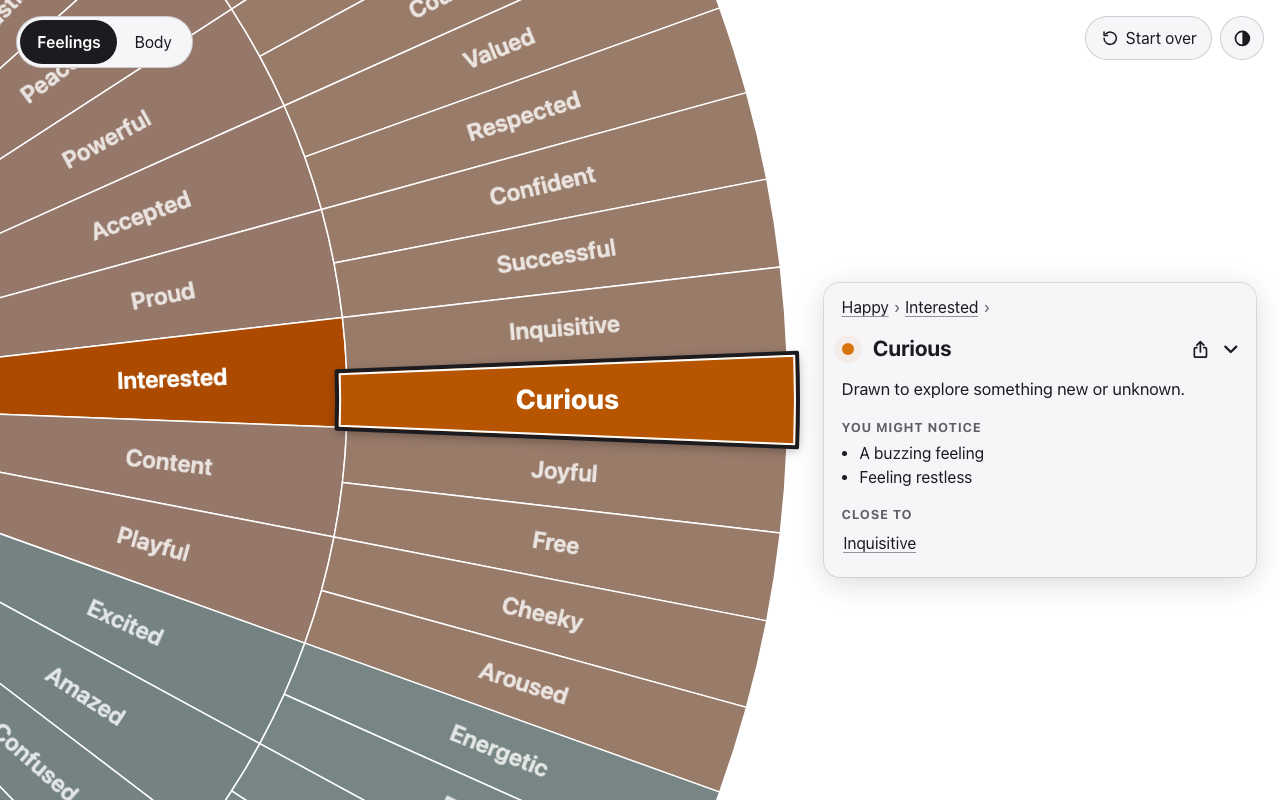
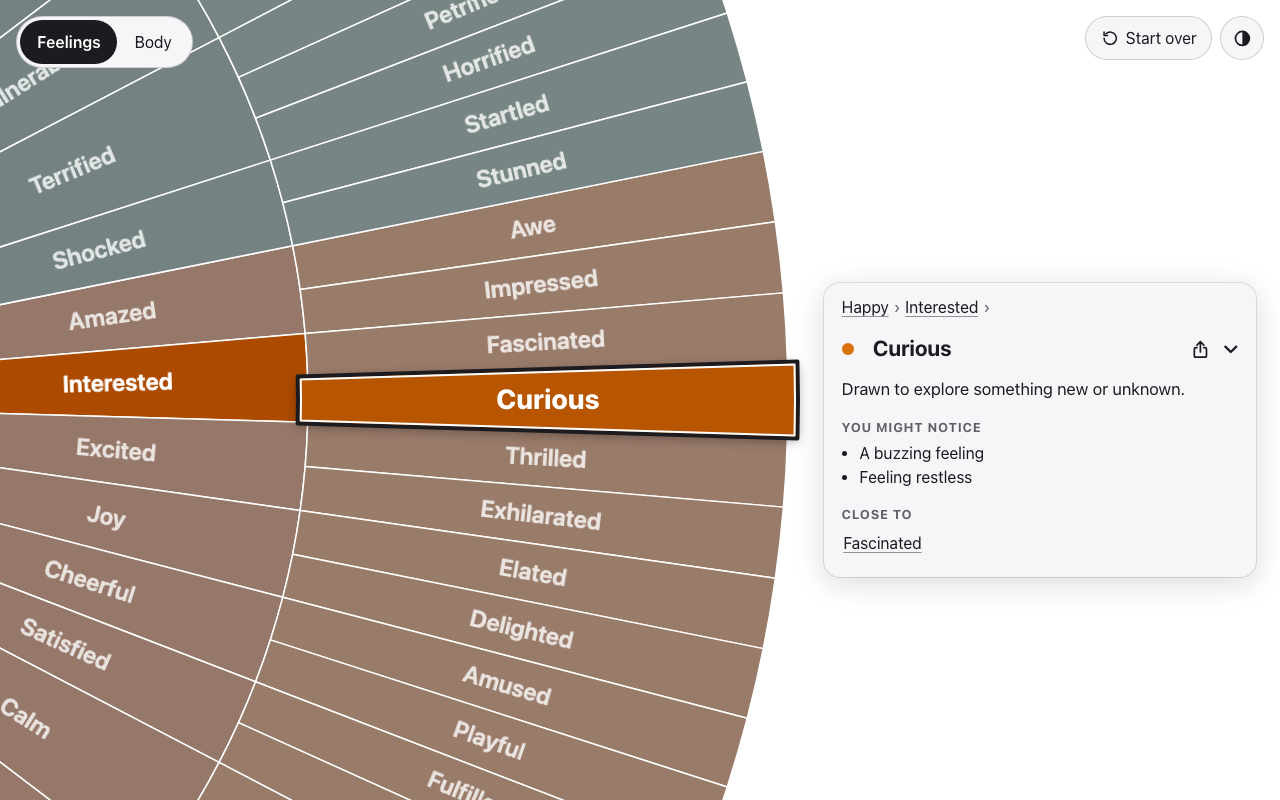
Opinionated wheel: roadmap, accessibility, and the README screenshot

diff --git a/docs/ROADMAP.md b/docs/ROADMAP.md
@@ -31,6 +31,7 @@ Each change is used before the next one is designed. When Lucas picks an idea to
 | Known issues: card text that keeps its size when the phone turns, no double-tap zoom on labels, one rest view for both wheels, opened rings that fit the screen, opened labels that fit their cell, a wheel that keeps its axis while it turns, labels that never disappear, and an opened wedge centered below the controls | Shipped 2026-11-18 | [spec](superpowers/specs/2026-11-18-feels-on-wheels-known-issues-design.md), [plan](superpowers/plans/2026-11-18-feels-on-wheels-known-issues.md), [round-two plan](superpowers/plans/2026-11-18-feels-on-wheels-known-issues-round-2.md), [round-three plan](superpowers/plans/2026-11-18-feels-on-wheels-known-issues-round-3.md), [changes](superpowers/specs/2026-11-18-feels-on-wheels-known-issues-changes.md) |
 | <a id="snapshots-across-devices-and-window-sizes"></a>Screenshots of every layout on real phones, tablets and computers, in Chromatic | Shipped 2026-11-18 | [spec](superpowers/specs/2026-11-18-feels-on-wheels-screenshots-design.md), [plan](superpowers/plans/2026-11-18-feels-on-wheels-screenshots.md), [changes](superpowers/specs/2026-11-18-feels-on-wheels-screenshots-changes.md) |
 | Sideways tablets and computers: the core word stays in view with a middle word open, and opening a core word zooms in a little more | Shipped 2026-11-19 | [spec](superpowers/specs/2026-11-18-feels-on-wheels-sideways-zoom-design.md), [plan](superpowers/plans/2026-11-19-feels-on-wheels-sideways-zoom.md), [changes](superpowers/specs/2026-11-18-feels-on-wheels-sideways-zoom-changes.md) |
+| <a id="an-opinionated-feelings-wheel"></a>An opinionated feelings wheel: six cores like a color wheel, 162 words chosen by rules and research, plain-language cards, the body wheel repaired to match, and the rules beside the data | Shipped 2026-11-26 | [spec](superpowers/specs/2026-11-26-feels-on-wheels-opinionated-wheel-design.md), [plan](superpowers/plans/2026-11-26-feels-on-wheels-opinionated-wheel.md) |
 
 ## Ideas
 
@@ -43,7 +44,7 @@ Not in any order; none is chosen yet. They're grouped by what they touch, and id
 | [Strength](#strength) | New ways to identify an emotion | Shelved (2026-11-08) |
 | [Wheels for kids](#wheels-for-kids) | New ways to identify an emotion | Idea |
 | [Search for a word](#search-for-a-word) | New ways to identify an emotion | Idea |
-| [An opinionated feelings wheel](#an-opinionated-feelings-wheel) | [The wheels' content](#the-wheels-content) | Brainstorming |
+| [Open questions in the feelings wheel](#open-questions-in-the-feelings-wheel) | [The wheels' content](#the-wheels-content) | Idea |
 | [Narrower feelings on the body wheel's card](#narrower-feelings-on-the-body-wheels-card) | The wheels' content | Idea |
 | [Languages](#languages) | [URLs, routing and hosting](#urls-routing-and-hosting) | Planned |
 | ["Did you mean" on not found](#did-you-mean-on-not-found) | URLs, routing and hosting | Idea |
@@ -94,7 +95,7 @@ What Lucas first asked for:
   - their URLs, and whether a kids' word links to the same word on the grown-up wheel;
   - where the words come from, since any new source gets a [reference note](reference/README.md) and a credit.
 - Overlaps with the [emoji wheel](#emoji-wheel), which is also a simplified wheel; worth designing them together.
-- A check for which words fit each age, from the opinionated wheel's brainstorm (2026-11-19): a published study of which feeling words children know, by age band (Baron-Cohen et al. 2010, UK, about 336 words; it counts a word as known when 75% of the band knew it). Words off its list need another check. See the [data notes](opinionated-wheel/learnings.md#data).
+- A check for which words fit each age, from the opinionated wheel's brainstorm (2026-11-19): a published study of which feeling words children know, by age band (Baron-Cohen et al. 2010, UK, about 336 words; it counts a word as known when 75% of the band knew it). Words off its list need another check. See [its note](reference/baron-cohen-emotion-vocabulary.md).
 
 #### Search for a word
 
@@ -108,24 +109,14 @@ What Lucas first asked for:
 
 What the wheels say: their words, definitions, and how feelings relate to sensations. Whatever is decided here gets written down as rules beside the data (`src/data/README.md`, with an `AGENTS.md` there that loads it), not only in a spec.
 
-#### An opinionated feelings wheel
+#### Open questions in the feelings wheel
 
-- Lucas, 2026-11-15: the feelings wheel should be opinionated about the words it uses, their definitions, and how feelings relate to sensations. Today it largely repeats other wheels (mostly [Roberts's seven-core wheel](reference/core-feelings-wheel.md)), which isn't necessary.
-- Its rules go in `src/data/README.md` next to the body wheel's, so every later edit follows them.
-- **A word for accepting your situation.** Lucas, 2026-11-16: not fighting reality, going with the flow. The wheel's Accepted means being welcomed by others, so the body wheel's Nothing much uses Content and At peace for now (rework [changes](superpowers/specs/2026-11-15-feels-on-wheels-body-wheel-rework-changes.md#flat); [radical acceptance](reference/linehan-dbt-model-of-emotions.md), [equanimity](reference/desbordes-equanimity.md)).
-- **Words that sit oddly under their parent,** such as Hesitant under Repelled, Embarrassed under Disapproving, and Inferior under Depressed (Lucas, 2026-11-16). The body wheel's rule about a word and its parent depends on this nesting.
-- **Brainstormed 2026-11-19 and 2026-11-20.** The rules for which words the wheel has and where they go are settled, and a candidate wheel was built from those rules alone: 6 cores (Happy, Love, Sad, Scared, Angry, Bad) and about 165 words, keeping about half of today's. Everything is in [opinionated-wheel/](opinionated-wheel/):
-  - [the rules](opinionated-wheel/rules.md) and the research behind them;
-  - [the candidate wheel](opinionated-wheel/derived-wheel.md);
-  - [what the process taught](opinionated-wheel/learnings.md), including every decision Lucas made;
-  - [the handoff](opinionated-wheel/handoff.md) for the next session: scrutinize the rules, rule on the cores, then comb the words.
-- **Rules rethought 2026-11-21.** A cold refutation of the numbered rules led Lucas to replace them with a looser set: strict script checks for facts, usage counts as flags, five questions for judgment, and a written reason for every word. Two independent drafts and a refuter checked it.
-- Settled along the way: the accepting word is At peace (under Happy → Calm), and the odd nestings are what the placement questions fix. Colors, link previews, and URLs don't weigh in the choices, and links to removed or moved words aren't a concern (Lucas, 2026-11-19).
-- Cores settled 2026-11-21: Happy, Love, Sad, Scared, Angry, and Bad.
-- Words settled for now, 2026-11-22: 162 words, with placement judged by which core people would tap (Lucas will review them again). Translations are out of scope for this work. The body wheel was repaired to the new words on 2026-11-26, changing only what they forced, and Urges took the brown Disgusted had as a core ([research/16](opinionated-wheel/research/16-body-wheel-repair.md)).
-- The cores are arranged like a color wheel, opposites facing each other, 2026-11-26: Happy, Angry, Love, Sad, Bad, Scared. Bad became teal, and the body wheel's Throat a muted violet to make room ([learnings](opinionated-wheel/learnings.md#lucass-decisions)).
-- "You might notice" for the new words was drafted from the repaired body wheel on 2026-11-26 ([research/16](opinionated-wheel/research/16-body-wheel-repair.md)). Still to decide: reference notes and credits for the new sources; and whether NRC's request for an About-page credit covers using it only as a design-time check (the app stays non-commercial, Lucas 2026-11-21).
-- Meets [Strength](#strength), [Wheels for kids](#wheels-for-kids), [Languages](#languages), and the [definitions and sensations review](#before-launching), which all depend on which words the wheel has. Builds on the rules the [body wheel rework](superpowers/specs/2026-11-15-feels-on-wheels-body-wheel-rework-design.md) set in [src/data/README.md](../src/data/README.md).
+Left open when the [opinionated feelings wheel](superpowers/specs/2026-11-26-feels-on-wheels-opinionated-wheel-design.md) shipped (its §6).
+
+- **"I feel bad for them."** Nearly half of "feel bad" is guilt or sympathy. Guilty is under Bad, but Sorry for someone is under Sad → Heartache, and nothing under Bad leads there; Bad's card can't point to it without a tacked-on clause (Lucas, 2026-11-25). The order helps a little: Sympathy sits beside Sorry for someone, where Love meets Sad. If people who feel bad for a friend don't find it, putting Sorry for someone in two places is the fix.
+- **Jealous and Envious.** Jealous is a middle word with Envious and Possessive, the two everyday kinds of jealousy. Lucas, 2026-11-22: "I just don't think it works very well", and he'd rather not have both Jealous and Envious, but Jealous has nowhere else to sit except a stretched Resentful.
+- **Check the whole wheel through a user's eyes,** as `src/data/README.md` describes, which would settle the first question. Lucas looked over the wheel himself on 2026-11-26 and saw nothing noteworthy.
+- Meets [Strength](#strength), [Wheels for kids](#wheels-for-kids), and [Languages](#languages), which all depend on which words the wheel has.
 
 #### Narrower feelings on the body wheel's card
 
@@ -137,7 +128,7 @@ What the wheels say: their words, definitions, and how feelings relate to sensat
   - for a core feeling, its middle-ring words only, or the outer words too;
   - whether each one links to its word on the feelings wheel, like the feelings they're nested under;
   - how long the card gets, since a core feeling can have several middle-ring words, and how the list reads to a screen reader.
-- Meets [An opinionated feelings wheel](#an-opinionated-feelings-wheel), which may change which words are nested under which, such as Hesitant under Repelled.
+- Example: on the body wheel, Overwhelmed (a middle word) is under several sensations; its card would also list Burned out and Pressured, the words under it on the feelings wheel.
 
 ### URLs, routing and hosting
 
@@ -216,7 +207,7 @@ Looked at on 2026-11-18 ([spec](superpowers/specs/2026-11-18-feels-on-wheels-kno
 
 The app is called **Feels on Wheels** (decided 2026-11-09). Going public happens in two steps: first shareable, then launched. Step 1 [shipped](#shipped) on 2026-11-09. Step 2 is what's left before announcing it and letting search engines index it. The host and the domain (2026-11-13) and the URL structure (2026-11-14) are done; the rest isn't started.
 
-- **Lucas reviews the definitions and sensations** in [content-review.md](content-review.md). This was moved out of v1.1. Since the body wheel rework, it also shows each card's "You might notice" phrases and the body wheel as it is, all rebuilt from the data, so the phrases drafted in the rework get reviewed here too.
+- **Lucas reviews the "You might notice" phrases** in [content-review.md](content-review.md), rebuilt from the data. He reviewed every definition twice for the [opinionated feelings wheel](superpowers/specs/2026-11-26-feels-on-wheels-opinionated-wheel-design.md) (2026-11-25); the phrases for its new words were drafted and cold-reviewed, but not by him.
 - **Draft text for Lucas to edit:** the body wheel's preview description ("Start from what you notice in your body to find the word for what you feel.") is a draft, and it's shorter than the 100 to 160 characters the home description uses.
 - **Let search engines in:** set `indexable: true` in `site.config.ts` (removes `noindex`), deploy, and re-check the link previews.
   - Decide first whether the `workers.dev` address and the preview links should say `noindex` once the domain is indexable, since they serve the same pages.

diff --git a/ACCESSIBILITY.md b/ACCESSIBILITY.md
@@ -64,7 +64,7 @@ These are known and tracked in the [roadmap's known issues](docs/ROADMAP.md#know
 - **On a phone, swiping back from the edge of the screen doesn't work on the wheel**, because the wheel takes every touch. Use the browser's Back button instead. In the app installed to an iPhone's home screen there's no Back at all: use Start over, or "Back to the wheel" on the About page. After jumping from the body wheel to the feelings wheel, "Back to the body wheel" above the card goes back without the browser's Back.
 - **On an iPhone with VoiceOver, the words on the wheel can't be reached**, so you can't pick a word that way. TalkBack on Android likely has the same problem but hasn't been tried. Until it's fixed, a word's own address (such as `/angry`) opens its card directly.
 - **On the wheel, pinching zooms the wheel itself, not the page.** To make text larger, use the browser's or the system's text size or zoom settings.
-- **Words on the wheel can be small to tap before you've opened anything**, especially on the body sensations wheel: on a phone and on some computers, the outer words are under 24 px tall. Open a word in the middle ring first by tapping it twice. The wheel zooms in, and every word in the outer ring is then large enough to tap.
+- **Words on the wheel can be small to tap before you've opened anything**, on both wheels: on a phone and on most computers, the outer words are under 24 px tall (on a 375 px wide phone, about 16 px on the feelings wheel and 15 px on the body sensations wheel). Open a word in the middle ring first by tapping it twice. The wheel zooms in, and every word in the outer ring is then large enough to tap.
 - **On some phones, after turning the phone sideways and back several times**, taps were once reported to land on the wrong word. It couldn't be reproduced in testing. Reloading the page may set it right.
 - **Linux computers with a wide default font** may show the wheel switch overlapping the toolbar on very narrow windows.
 
